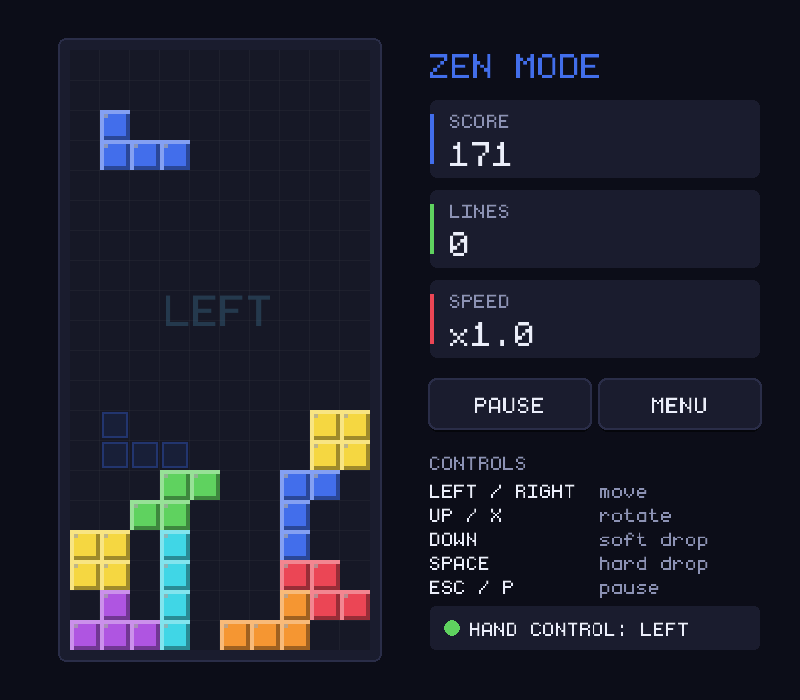
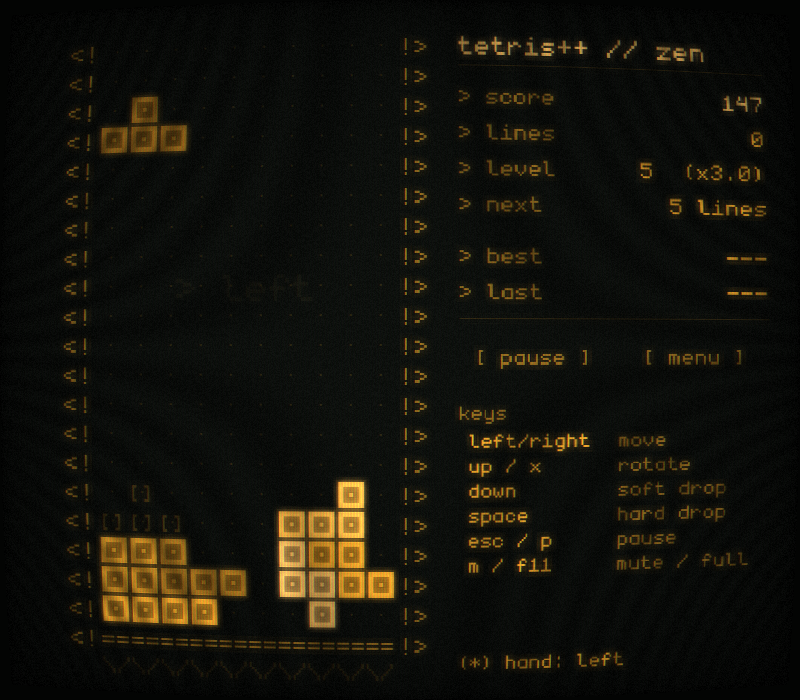
Document the CRT look, Zen setup, high scores and new controls
- README: features, new screenshots (boot, menu, Zen setup, playing,
  paused, game over), Zen setup and high score sections, M and F11 keys
- User_Documentation: levels and pace, lock delay and wall kicks,
  updated Zen scoring, soft-drop points, high scores
- CLAUDE.md: new modules, scenes, shader and conventions

Claude-Session: https://claude.ai/code/session_015JzQNajVxth7XLMU9wu73N

diff --git a/User_Documentation.md b/User_Documentation.md
@@ -5,7 +5,7 @@ This is an introduction guide to our game of Tetris. It is a classic puzzle vide
 
 ## On building the code
 After you've successfully built the code, a Main Menu opens that gives you three play options (use the mouse, the arrow keys + Enter, or hand gestures to choose): 
-1. **Zen Mode** : This is a non-timed version where user can play for as long as they want until the game finishes. From the pause menu (Esc, P, or hold a fist) they can **Quit** the game or **Save & Quit** if they'd like to save their progress, and continue later with **Continue Saved**.
+1. **Zen Mode** : This is a non-timed version where user can play for as long as they want until the game finishes. Before playing, a setup screen lets them choose the **start level** (1-10, which sets the speed and score multiplier), the **pace** (how many lines until the next level: chill 10, steady 8, rising 5, brutal 3), the phosphor colour, the ghost piece, the CRT effect and sound. From the pause menu (Esc, P, or hold a fist) they can **Quit** the game or **Save & Quit** if they'd like to save their progress, and continue later with **Continue Saved**.
 2. **Time Attack**: This is a 120 seconds timed game wherein the user has to score as much as they can in 120 seconds.
 3. **First Forty Lines Clearance**: In this, the user has to clear 40 lines as fast as they can. along with the timer, you get a **Lines** prompter which tells you the number of lines cleared so far. 
 
@@ -20,7 +20,8 @@ The game is pretty intuitive, wherein the tetrominoes can be controlled as follo
 * Spacebar: force the block to fall directly.
 * Esc or P: pause
 
-The faint outline at the bottom of the board (the "ghost") shows where the block will land.
+The faint `[]` outline at the bottom of the board (the "ghost") shows where the block will land. A block that lands can still be slid or rotated for half a second before it locks, and rotating next to a wall or another block nudges it into place (a "wall kick").
+* M: sound on/off, F11: fullscreen
 
 ### Hands-free controls
 Run `./build/Tetris --gestures` (after `pip install -r gesture/requirements.txt`) to play with your webcam:
@@ -36,14 +37,15 @@ See the README for tuning tips.
 
 ### Zen Mode:
 
-This is the classic tetris mode where you can play till the entire grid fills up. The speed to fall of Tetrominos increase after every 5 lines are cleared.
+This is the classic tetris mode where you can play till the entire grid fills up. The speed of the falling Tetrominos increases every time you level up; how many lines that takes depends on the pace chosen on the setup screen (5 lines on "rising", like the original game).
 #### Game options:
 Will have 2 options to choose from either start a new game or load a saved game.
 #### Game end:
 The game will run till the grid fills up and there is no space for the new block to spawn
 #### Scoring:
-There is a score_multiplier(SM) that increases the score every time the block fall speed increases.
-* +1 ; as the block descends each row
+There is a score_multiplier(SM) of 1 + 0.5 for every level above 1, so a higher start level and every level up are worth more.
+* +SM ; as the block descends each row on its own
+* +1 ; for every row you move the block down with the down key
 * +20; for using force fall (SpaceBar)
 * +300*SM; for every line cleared
 * +500*SM; for every line cleared if 4 lines cleared together
@@ -58,6 +60,7 @@ If 120 seconds are over or grid fills up and there is no space for the new block
 
 #### Scoring:
 * +20; for using force fall
+* +1; for every row moved down with the down key
 * +200; if one line cleared
 * +300; per line if 2 lines cleared together
 * +400; per line if 3 lines cleared together
@@ -73,3 +76,5 @@ The game ends when 40 lines cleared or grid fills up and there is no space for t
 #### Scoring:
 * Time taken is itself the score
 
+## High scores
+The best five results of each mode and your most recent game are saved in `scores.json`. The menu shows the best and last result for the selected mode, and the game-over screen shows where your result ranks. In First 40 Lines, only finished runs (40 lines cleared) count, and faster is better.

diff --git a/CLAUDE.md b/CLAUDE.md
@@ -26,14 +26,18 @@ sending UDP commands (see below) instead of fake key presses.
 
 | Path | What |
 |---|---|
-| `src/game.*` | `Game` base class: piece movement, collision, `apply(Action)`, `hard_drop()`, ghost piece, `step_towards_column()` |
+| `src/game.*` | `Game` base class: piece movement, collision, `apply(Action)`, `hard_drop()`, ghost piece, `step_towards_column()`, wall kicks, `tick(now)` gravity with optional `lock_delay`, `piece_id` |
+| `src/zen_mode.*` | `ZenSettings` (start level, lines per level), `level`, `drop_interval_for()`, `multiplier_for()`, `update_level()`, save/load incl. level data. Default `ZenMode()` = level 1, x1, 5 lines per level (the original tests rely on it) |
+| `src/HighScores.*`, `src/Profile.*` | `scores.json` (top 5 + last run per mode) and `profile.json` (Zen setup choices); both tolerate missing/broken files |
+| `src/Sound.*` | Beeps generated in code (`sound::play(Sfx::...)`); no-op without an audio device |
 | `src/zen_mode.*`, `time_attack_mode.*`, `first_forty_mode.*`, `time_dependent_mode.*` | The three modes (scoring, finish rules, Zen save/load to `game_state.json`); `TimeDependentMode` has `pause_timer()`/`resume_timer()` |
 | `src/board.*` | 20x10 grid (raw `int**`, not copyable), row clearing, drawing; records `last_cleared_rows`/`clear_events` for the flash effect |
 | `src/Tetromino/` | Base `Tetromino` + one class per piece; each constructor sets its fixed `color_id` (I=1 … Z=7) |
 | `src/Color.*` | Palette; `cell_color(id)` wraps ids > 7 (old saves used random ids up to 10) |
-| `src/App.*` | The one window and the scenes (MainMenu, ZenChoice, Playing, Paused, GameOver), HUD and overlays. It draws to an 800x700 render texture that is letterboxed into the resizable window; mouse coordinates are remapped with `SetMouseOffset`/`SetMouseScale` |
-| `src/ui/Draw.*` | Theme colours, bevelled `draw_cell`, `draw_ghost_cell`, the shared font (`assets/monogram.ttf`) and text helpers |
-| `src/ui/Widgets.*` | `ui::button` (immediate mode) and `ui::Menu` (keyboard, gesture and mouse navigation) |
+| `src/App.*` | The one window and the scenes (Boot, MainMenu, ZenSetup, Playing with countdown, Paused, GameOver), sidebar, effects (sliding block, sparks, trails, shake), sounds and high-score recording. It draws to an 800x700 render texture that is letterboxed into the resizable window; mouse coordinates are remapped with `SetMouseOffset`/`SetMouseScale` |
+| `src/ui/Draw.*` | Phosphor themes (`set_phosphor`, `theme()`, `block_color`), `draw_cell`/`draw_ghost_cell`/`draw_empty_cell`, block-letter logo, font and text helpers, `mouse_active()` |
+| `src/ui/Widgets.*` | `ui::text_button` and `ui::Menu` (terminal-style list with optional values; keyboard, gesture and mouse) |
+| `assets/shaders/crt.fs` | CRT post-process shader applied to the 800x700 render texture (`time`, `strength` uniforms) |
 | `src/input/` | `Action` enum, `InputManager` (keyboard with DAS 170 ms / ARR 50 ms + gestures), `GestureSource` (non-blocking UDP on 127.0.0.1:5005) |
 | `gesture/gestures.py` | Detector with no camera dependency: landmarks → commands. All thresholds are in `Config` |
 | `gesture/hand_control.py` | Webcam + MediaPipe Tasks `HandLandmarker` (VIDEO mode) → UDP |
@@ -55,7 +59,10 @@ Any new command needs to be added in three places: `GestureSource.cpp`, `gesture
   through `Action`, never through raw key checks in game logic.
 - `GestureSource.cpp` must not include `raylib.h`, because it clashes with `winsock2.h` on Windows.
 - Don't copy `Game`/`Board` objects (they own raw memory); `App` holds the game in a `unique_ptr`.
-- Keep `./build/Tetris --test` and the Python tests passing, and extend them when changing logic.
+- Keep `./build/Tetris --test` and the Python tests passing, and extend them when changing logic
+  (`src/UnitTestExtras.h` holds the tests for levels, kicks, lock delay and high scores).
+- Look: lowercase terminal text, colours only from `ui::theme()`; test screens headlessly and
+  check them with the CRT effect on.
 - The MediaPipe model (`gesture/models/`) is downloaded at runtime and git-ignored; don't commit it.
 
 ## Git

diff --git a/README.md b/README.md
@@ -4,14 +4,21 @@ An extended version of **TetrisX**, our university C++ Tetris clone
 ([Hussain5001/tetris](https://github.com/Hussain5001/tetris)). The original
 repository is left untouched; this one adds:
 
-- **A redesigned UI.** Everything runs in one resizable window, with bevelled blocks, a ghost piece,
-  a line-clear flash, stat panels for each mode, and pause and game-over screens.
+- **A night-terminal look.** Amber or green phosphor on black, shown through a CRT effect with
+  curved glass, scanlines and glow. The well is framed with `<! !>` like the 1984 original.
+- **Zen levels.** Choose a start level (speed and score multiplier) and a pace (how quickly it
+  speeds up), plus quick settings, all remembered between runs.
+- **Smoother play.** Lock delay, wall kicks, a sliding block, a 3-2-1 countdown, line-clear
+  sparks, a hard-drop trail and generated sound effects.
+- **High scores.** The best five results and your last run for every mode, saved to `scores.json`.
 - **Hands-free play.** A small Python program watches your webcam, recognises hand
   gestures with MediaPipe and sends them to the game.
 
-| Menu | Playing | Paused | Game over |
-|---|---|---|---|
-| ![menu](docs/screenshots/menu.png) | ![gameplay](docs/screenshots/gameplay.png) | ![pause](docs/screenshots/pause.png) | ![game over](docs/screenshots/gameover.png) |
+| Boot | Menu | Zen setup |
+|---|---|---|
+| ![boot](docs/screenshots/boot.png) | ![menu](docs/screenshots/menu.png) | ![zen setup](docs/screenshots/zen-setup.png) |
+| **Playing** | **Paused** | **Game over** |
+| ![gameplay](docs/screenshots/gameplay.png) | ![pause](docs/screenshots/pause.png) | ![game over](docs/screenshots/gameover.png) |
 
 ## Building
 
@@ -36,8 +43,32 @@ If you cloned without `--recursive`, run `git submodule update --init` first.
 | ↑ or X | rotate |
 | ↓ | soft drop |
 | Space | hard drop |
-| Esc or P | pause |
+| Esc or P | pause (the game also pauses when its window loses focus) |
 | Enter | select in menus |
+| M | sound on/off |
+| F11 | fullscreen |
+
+## Zen setup
+
+Choosing **zen** opens a setup screen. Use ← / → to change a value and ↑ / ↓ to move:
+
+| Setting | What it does |
+|---|---|
+| start level 1–10 | Starting speed, from 0.80 s per row at level 1 to 0.10 s at level 10. Each level adds ×0.5 to the score multiplier, so level 5 scores ×3. |
+| pace | How often you level up: **chill** every 10 lines, **steady** 8, **rising** 5 (the original), **brutal** 3. Past level 10 it keeps speeding up down to 0.05 s per row. |
+| phosphor | **amber**, **green**, or **multi** (muted colours per block) |
+| ghost piece | Show where the block will land |
+| crt effect | The curved-glass/scanline effect; turn it off on slow machines |
+| sound | Generated terminal-style beeps |
+
+Choices are saved in `profile.json`. **continue saved** loads a game saved with *save & quit* from the pause menu.
+
+## High scores
+
+Every finished game is saved to `scores.json` straight away: the **top 5** for each mode, plus your
+**last run** (even when it isn't a high score). The menu shows the best and last result for the
+selected mode, and the game-over screen shows your rank and the table. First 40 Lines ranks by the
+fastest time and only counts games where you actually cleared 40 lines.
 
 ## Hands-free play (camera gestures)
 
